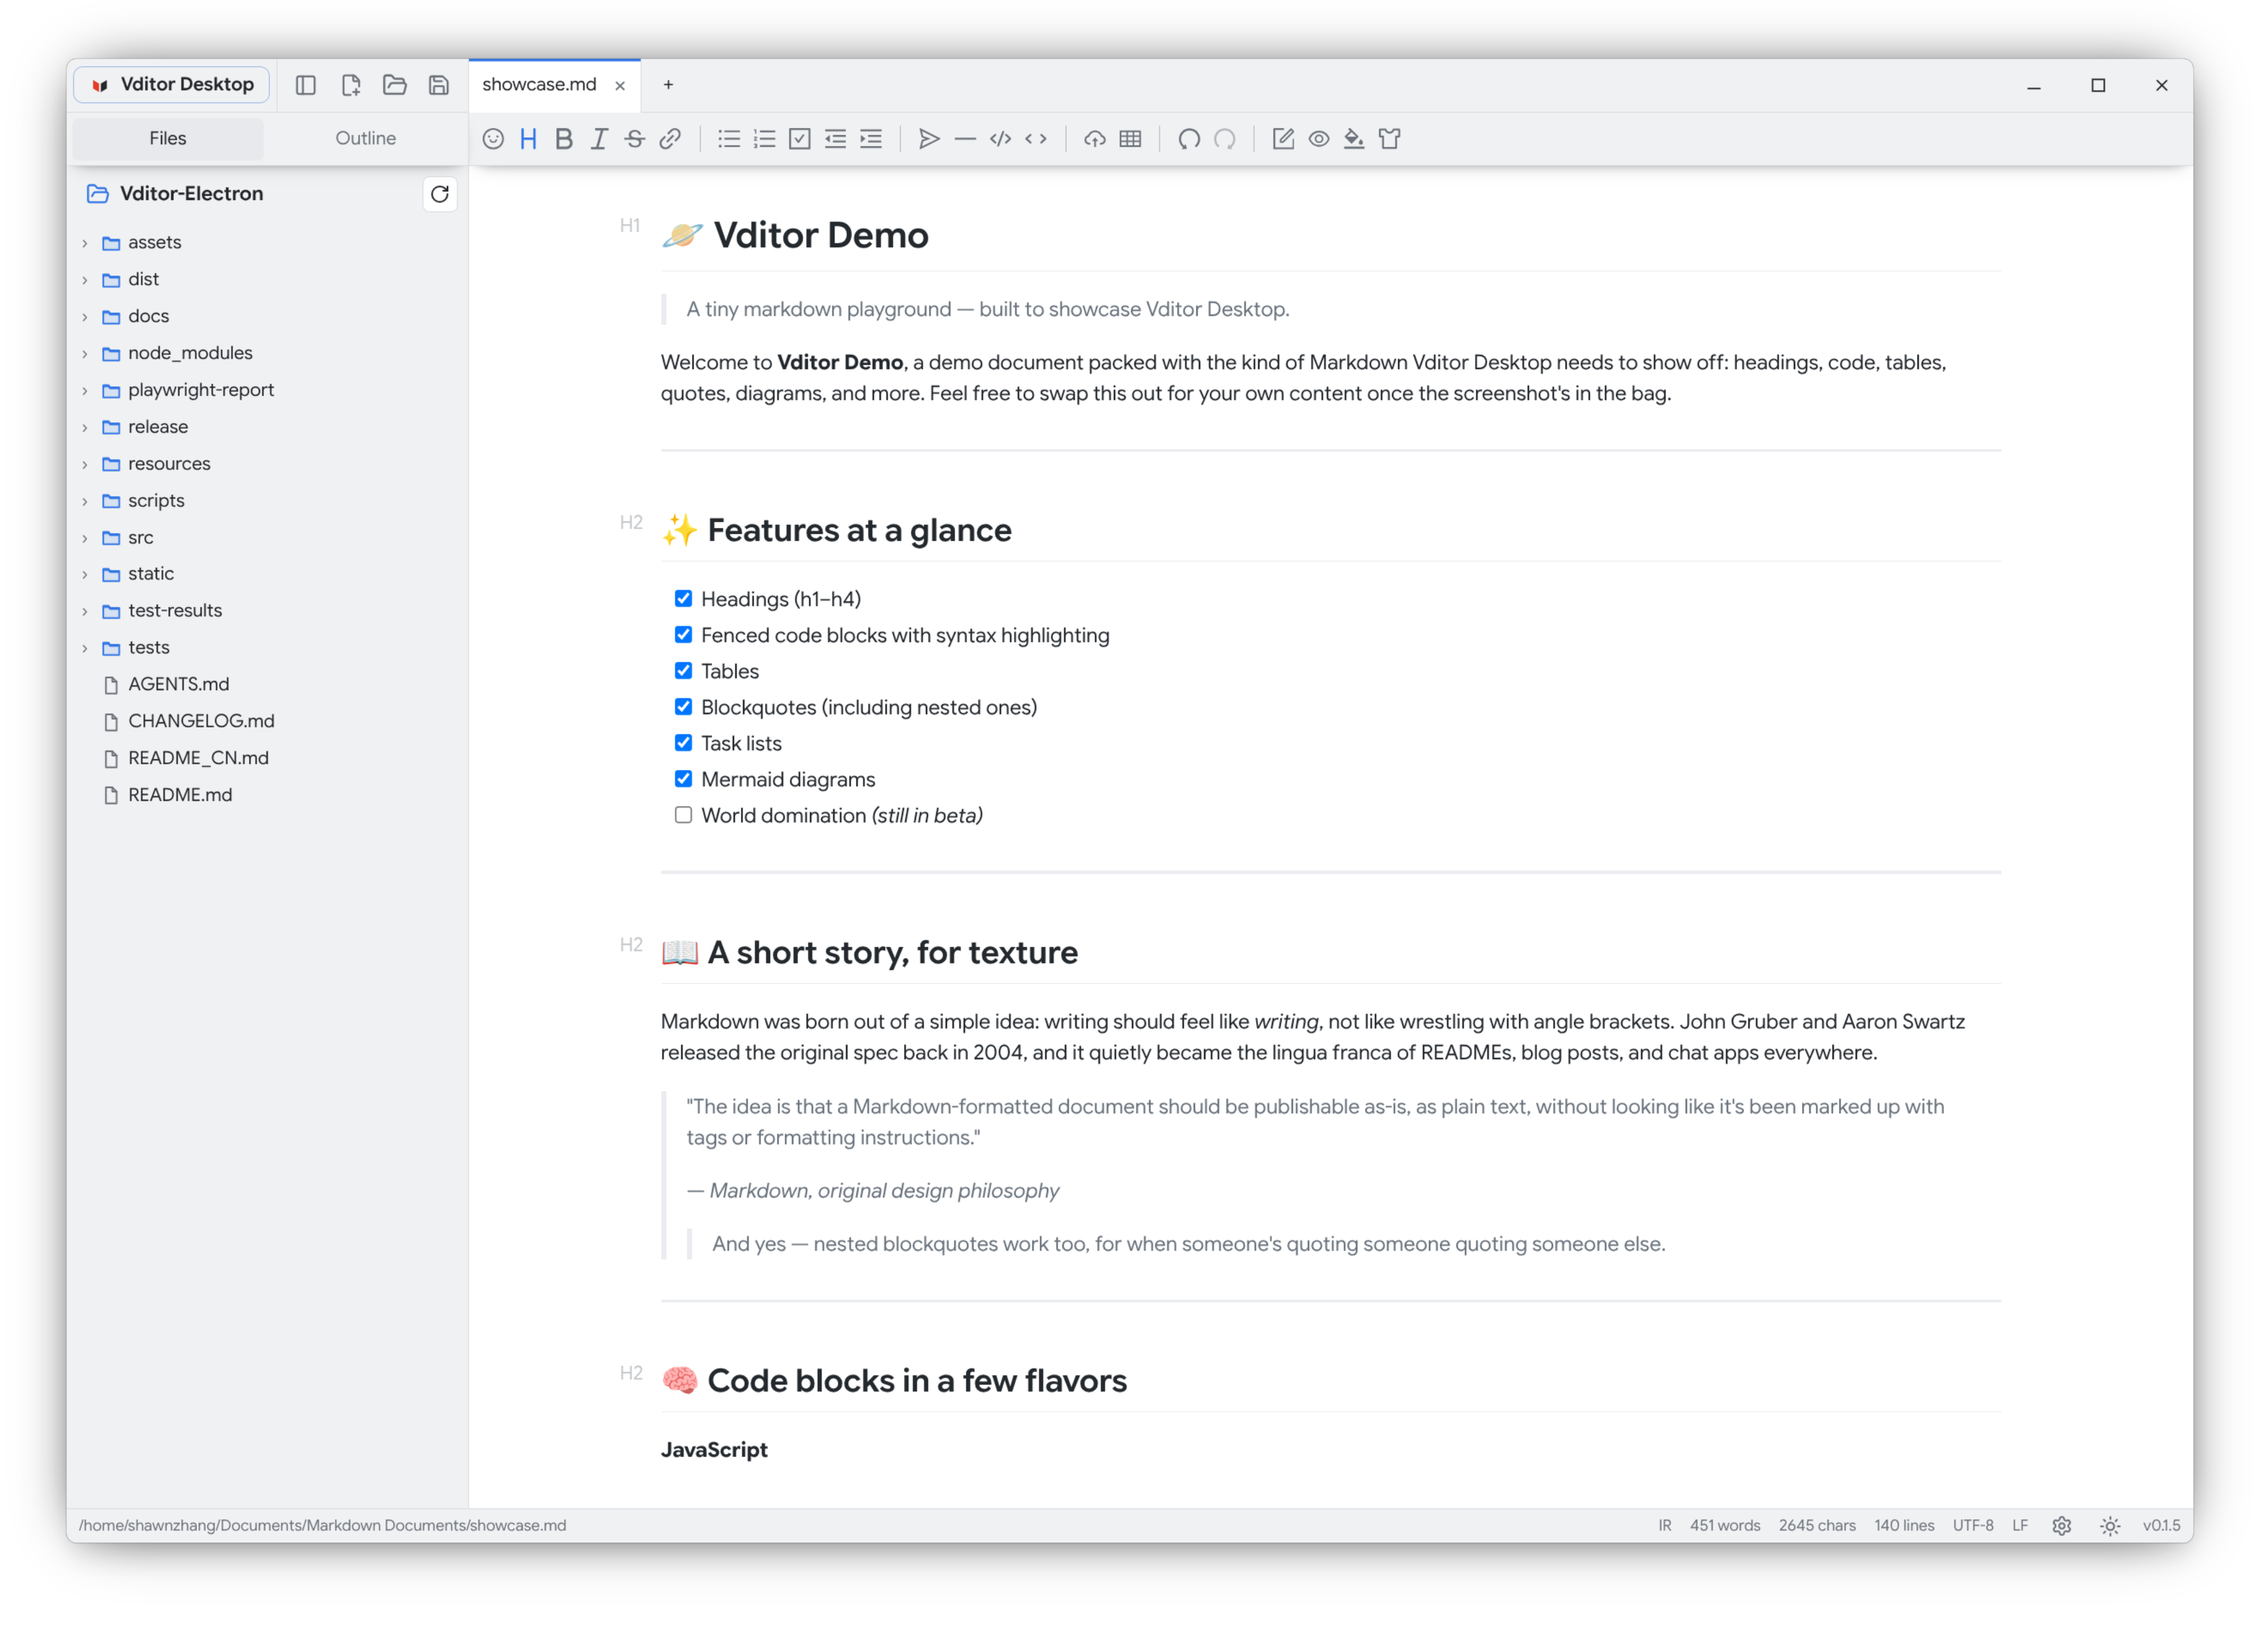
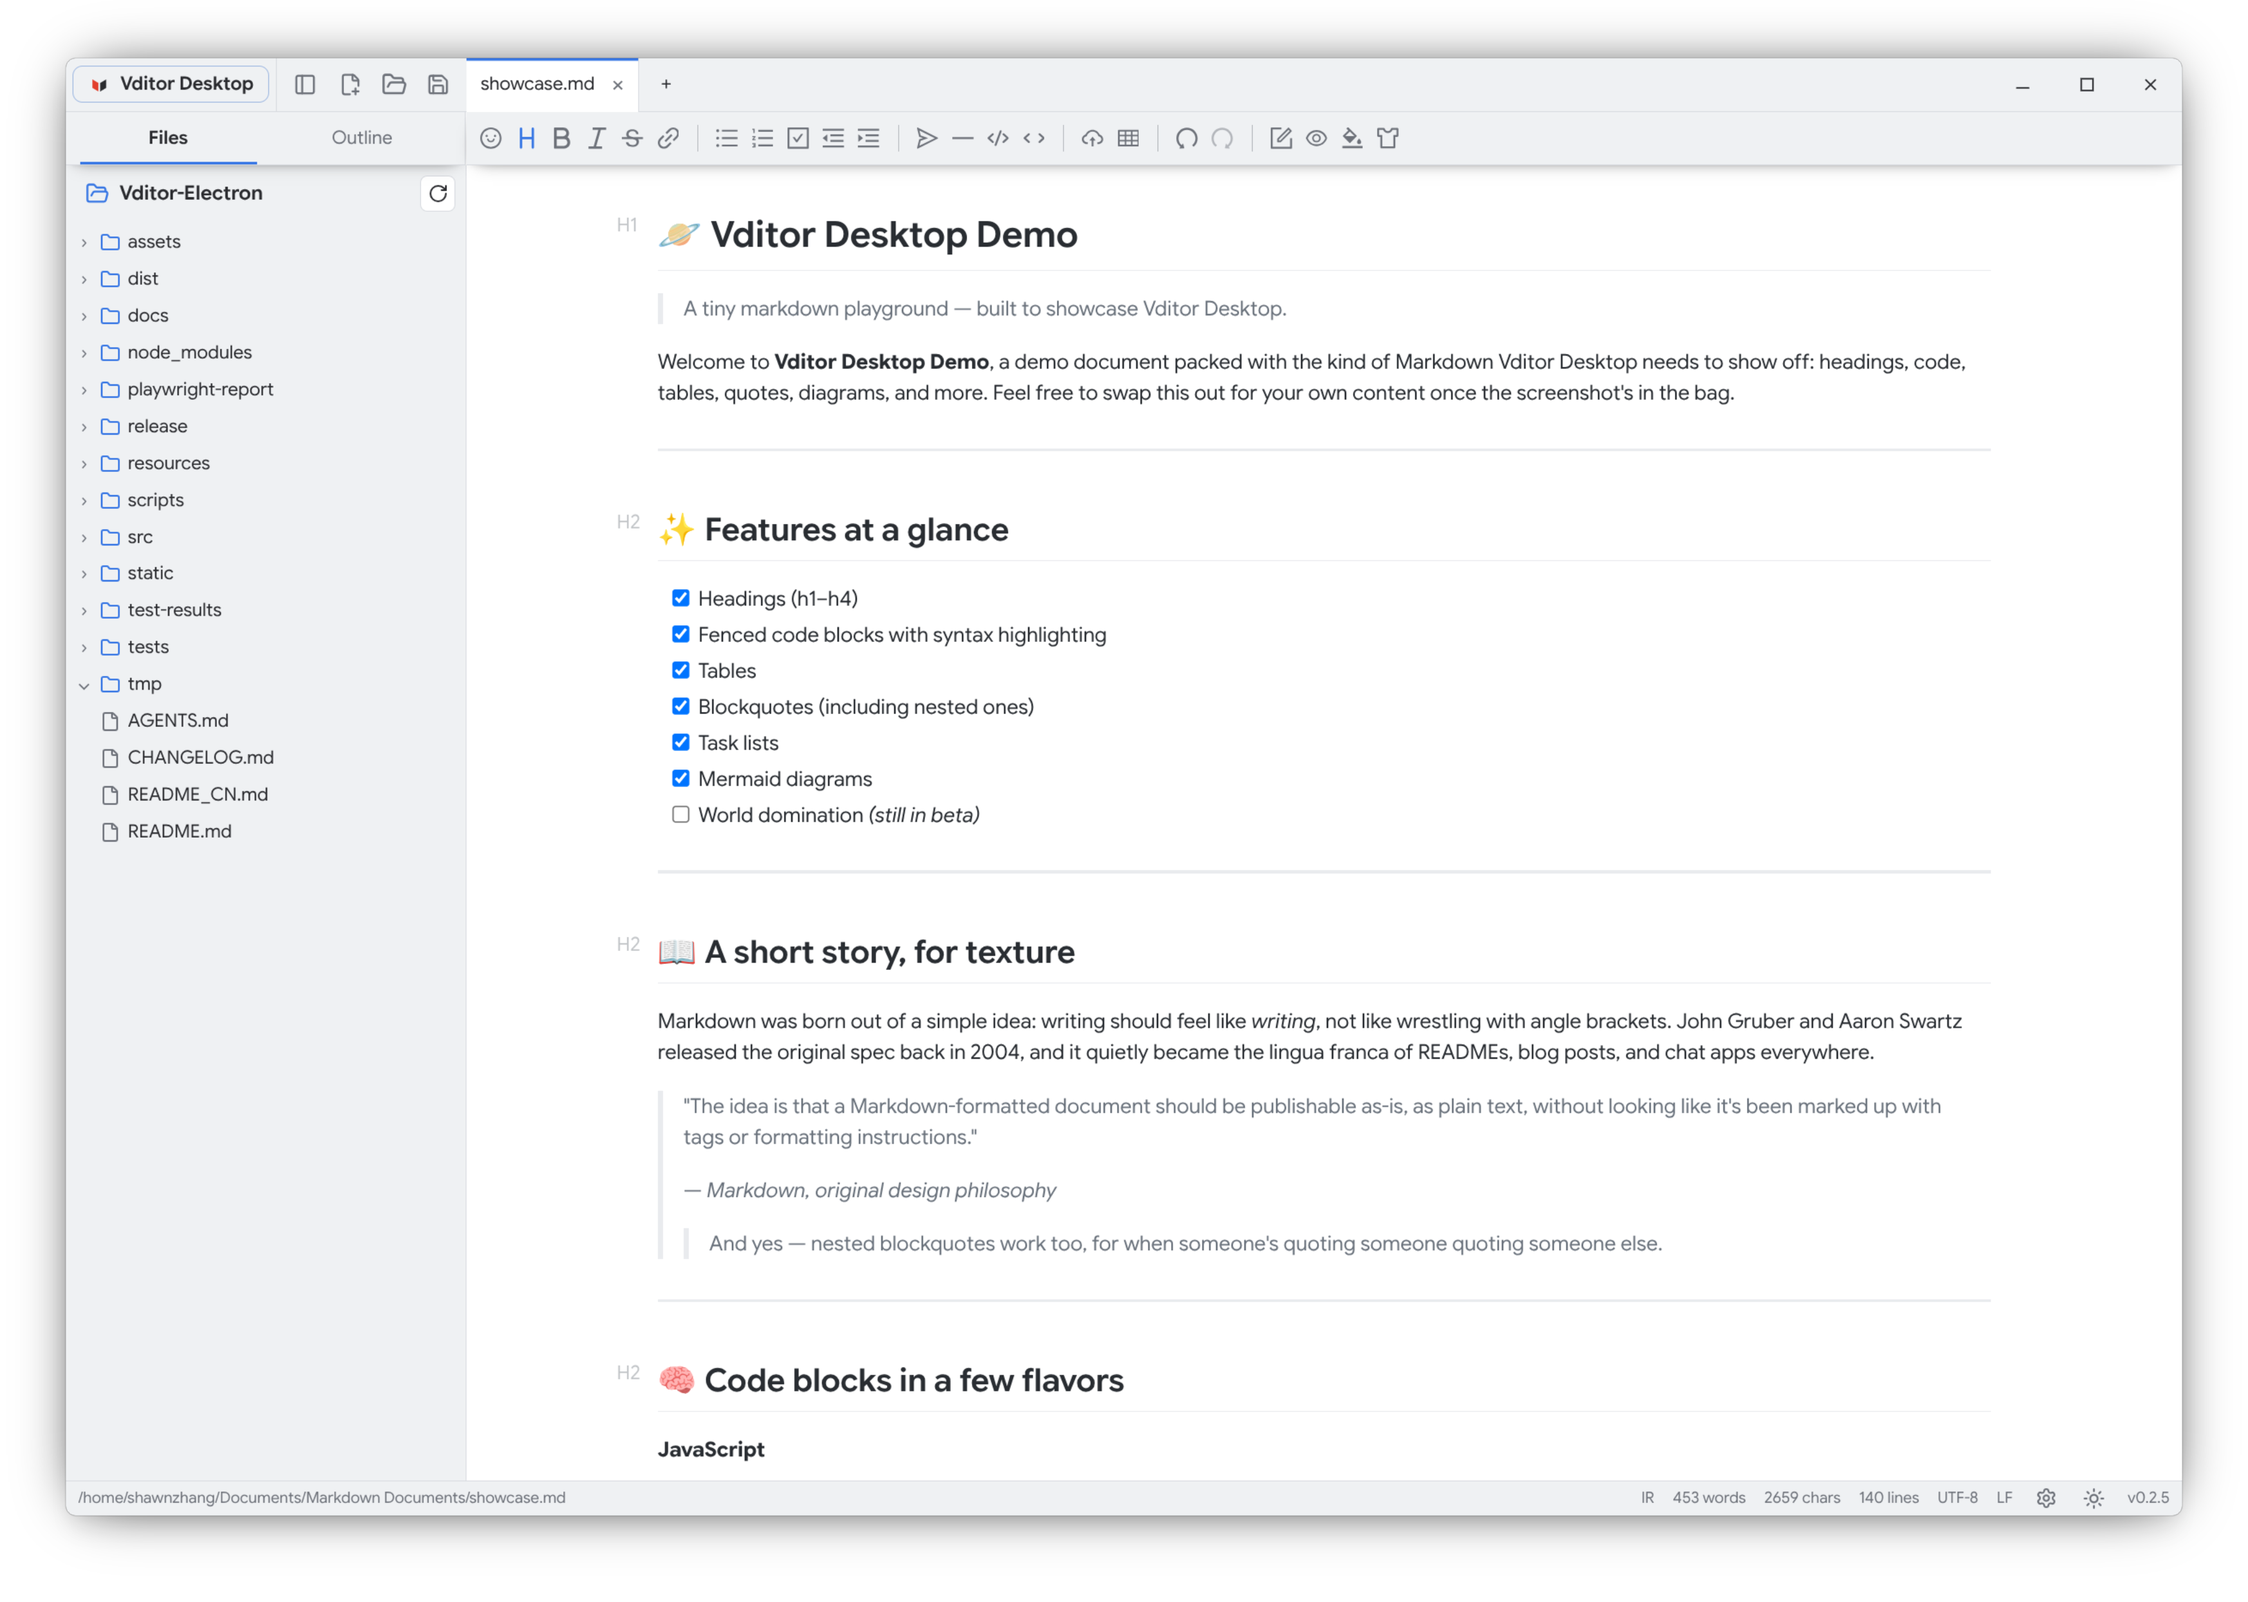
docs:update readme

diff --git a/README.md b/README.md
@@ -33,7 +33,7 @@ Vditor Desktop takes the writing experience of [Vditor](https://github.com/Vanes
 - [Themes and languages](#themes-and-languages)
 - [Everyday shortcuts](#everyday-shortcuts)
 - [Configuration and data](#configuration-and-data)
-- [Build and test](#build-and-test)
+- [Install and run](#install-and-run)
 - [Open-source software](#open-source-software)
 - [Disclaimer](#disclaimer)
 - [License](#license)
@@ -213,6 +213,8 @@ npm run test:e2e
 ```
 
 The Vditor dependency is intentionally pinned to 3.11.3. Refer to [the Vditor upgrade notes](docs/07-VDITOR-UPGRADE.md).
+
+</details>
 
 ## Open-source software
 
